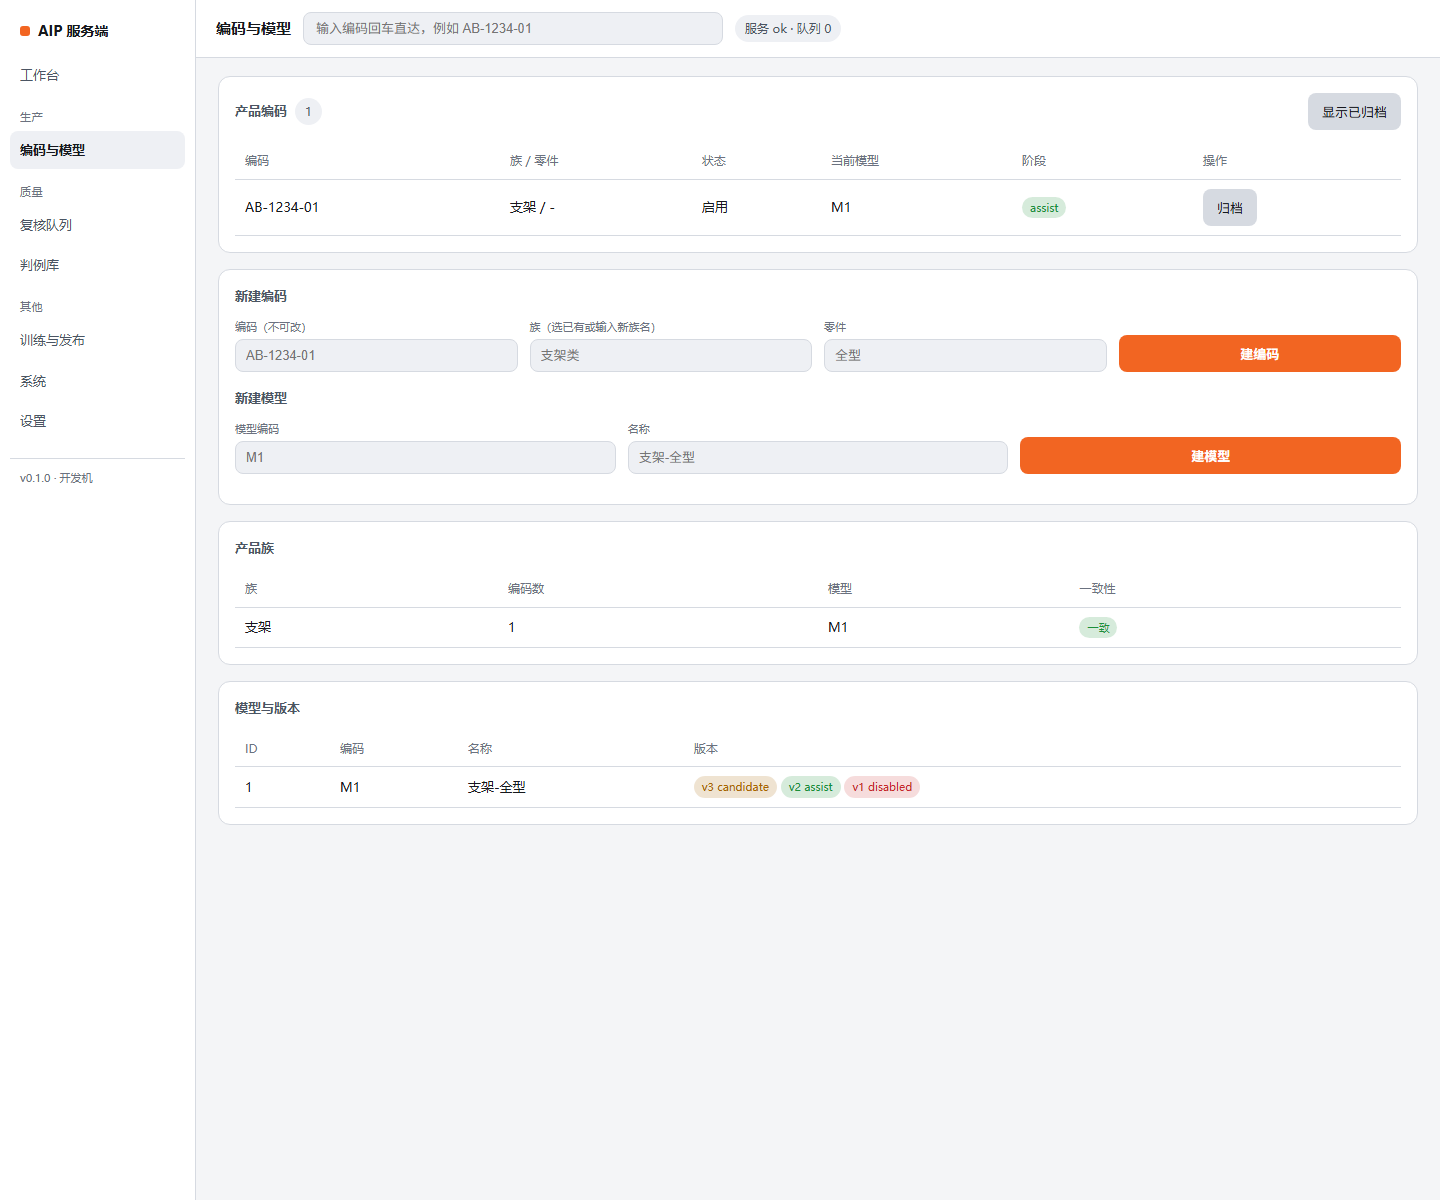
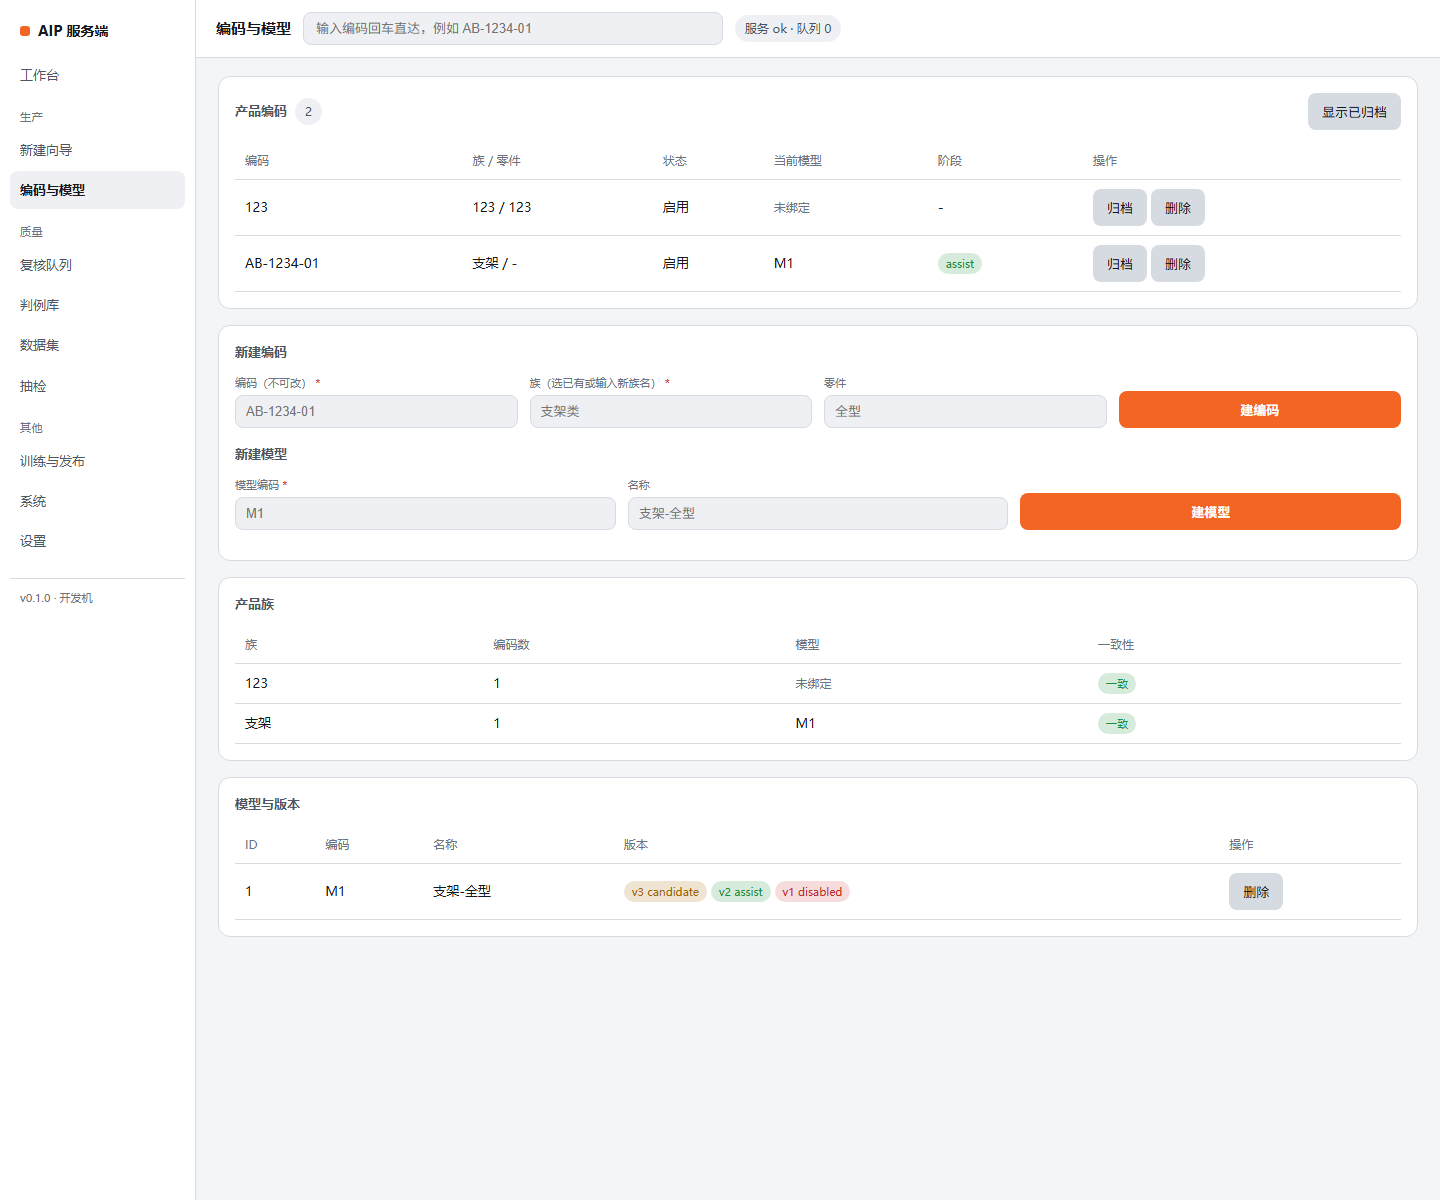
feat: 编码/模型删除（二次确认，有引用即拒绝）；必填项警示

diff --git a/aip/web/admin.html b/aip/web/admin.html
@@ -63,6 +63,8 @@
   tbody tr[data-code]{cursor:pointer}
 
   label{display:block;font-size:11px;color:var(--t3);margin-bottom:4px}
+  input.missing,select.missing{border-color:var(--bad);box-shadow:0 0 0 3px color-mix(in oklab,var(--bad) 20%,transparent)}
+  .req{color:var(--bad)}
   input,select{width:100%;background:var(--g2);border:1px solid var(--g3);color:var(--t1);border-radius:8px;padding:8px 10px;font-size:13px}
   input:user-invalid{border-color:var(--bad)}
   .form{display:grid;grid-template-columns:repeat(auto-fit,minmax(160px,1fr));gap:12px;align-items:end;margin-bottom:14px}
@@ -201,8 +203,8 @@
 <dialog id="caseDlg">
   <form method="dialog" id="caseForm">
     <h2 style="margin-bottom:12px">录入判例</h2>
-    <label for="f_code">编码</label><input id="f_code" required placeholder="AB-1234-01">
-    <label for="f_file">上传裁片</label><input id="f_file" type="file" accept="image/png,image/jpeg">
+    <label for="f_code">编码<span class="req"> *</span></label><input id="f_code" required placeholder="AB-1234-01">
+    <label for="f_file">上传裁片（或填路径，二者必填其一）<span class="req"> *</span></label><input id="f_file" type="file" accept="image/png,image/jpeg">
     <label for="f_path">或手填已有路径</label><input id="f_path" placeholder="data/crops/xxx.png">
     <label for="f_part">件号（同件只录一条）</label><input id="f_part" placeholder="P-20261114-001">
     <label for="f_verdict">结论</label>
@@ -263,6 +265,28 @@ const ACTIONS = {
   "model.smoke": "冒烟试判", "setting.bulk_update": "批量修改设置", "train.cancel": "取消训练",
 };
 const actionLabel = (a) => ACTIONS[a] || a;
+
+function need(el, label) {
+  if (el && String(el.value ?? "").trim()) return true;
+  if (el) { el.classList.add("missing"); el.focus(); }
+  toast(`${label}为必填项`, true);
+  return false;
+}
+
+async function hardDelete(url, label) {
+  if (!confirm(`删除「${label}」？\n\n此操作不可恢复；有历史引用时服务端会拒绝。`)) return false;
+  const typed = prompt(`请再次输入「${label}」以确认删除：`);
+  if (typed !== label) { toast("输入不一致，已取消", true); return false; }
+  try {
+    await api(url, {method: "DELETE"});
+    toast(`已删除 ${label}`);
+    return true;
+  } catch (e) { toast(e.message, true); return false; }
+}
+
+document.addEventListener("input", (ev) => {
+  if (ev.target && ev.target.classList) ev.target.classList.remove("missing");
+});
 
 /* ---------- 视图 ---------- */
 
@@ -360,8 +384,8 @@ async function renderWizard() {
       <h2>新建向导 <span class="pill">一条链路：编码 → 模型 → 样品 → 训练 → 发布</span></h2>
       <p class="muted" style="margin:0 0 12px">只显示当前该做的一步；完成后自动进入下一步，随时可从左侧导航离开。</p>
       ${step(0, `<div class="form">
-          <div><label for="wz_code">编码</label><input id="wz_code" placeholder="AB-1234-01"></div>
-          <div><label for="wz_family">族</label><input id="wz_family" list="wzFamilies" placeholder="支架类"></div>
+          <div><label for="wz_code">编码<span class="req"> *</span></label><input id="wz_code" placeholder="AB-1234-01"></div>
+          <div><label for="wz_family">族<span class="req"> *</span></label><input id="wz_family" list="wzFamilies" placeholder="支架类"></div>
           <div><label for="wz_part">零件</label><input id="wz_part" placeholder="全型"></div>
           <div><button class="act" id="wzCreateCode">建编码</button></div>
         </div>
@@ -370,7 +394,7 @@ async function renderWizard() {
         </div></div>` : ""}`)}
 
       ${step(1, `<div class="form">
-          <div><label for="wz_model">模型编码</label><input id="wz_model" placeholder="M1"></div>
+          <div><label for="wz_model">模型编码<span class="req"> *</span></label><input id="wz_model" placeholder="M1"></div>
           <div><label for="wz_model_name">名称</label><input id="wz_model_name" placeholder="支架-全型"></div>
           <div><button class="act" id="wzCreateModel">建模型并绑定到 ${esc(wiz.code)}</button></div>
         </div>
@@ -404,6 +428,7 @@ async function renderWizard() {
   }
   if ($("wzCreateCode")) {
     $("wzCreateCode").onclick = async () => {
+      if (!need($("wz_code"), "编码")) return;
       try {
         await post("/api/codes", {code: $("wz_code").value.trim(), family: $("wz_family").value.trim() || null, part: $("wz_part").value.trim() || null});
         wiz.code = $("wz_code").value.trim();
@@ -414,6 +439,7 @@ async function renderWizard() {
   }
   if ($("wzCreateModel")) {
     $("wzCreateModel").onclick = async () => {
+      if (!need($("wz_model"), "模型编码")) return;
       try {
         const m = await post("/api/models", {code: $("wz_model").value.trim(), name: $("wz_model_name").value.trim() || null});
         await post("/api/bindings", {code: wiz.code, model_id: m.id});
@@ -524,7 +550,8 @@ async function renderCatalog() {
             <td>${b ? tag(b.stage) : "-"}</td>
             <td>${c.archived_at
               ? `<button class="ghost" data-restore="${esc(c.code)}">取消归档</button>`
-              : `<button class="ghost" data-archive="${esc(c.code)}" ${b ? "disabled title=\"先解绑再归档\"" : ""}>归档</button>`}</td>
+              : `<button class="ghost" data-archive="${esc(c.code)}" ${b ? "disabled title=\"先解绑再归档\"" : ""}>归档</button>`}
+              <button class="ghost" data-delcode="${esc(c.code)}">删除</button></td>
           </tr>`;
         }).join("")}</tbody></table>`}
     </section>
@@ -532,8 +559,8 @@ async function renderCatalog() {
     <section>
       <h2>新建编码</h2>
       <div class="form">
-        <div><label for="nc_code">编码（不可改）</label><input id="nc_code" required placeholder="AB-1234-01"></div>
-        <div><label for="nc_family">族（选已有或输入新族名）</label>
+        <div><label for="nc_code">编码（不可改）<span class="req"> *</span></label><input id="nc_code" required placeholder="AB-1234-01"></div>
+        <div><label for="nc_family">族（选已有或输入新族名）<span class="req"> *</span></label>
           <input id="nc_family" list="familyList" placeholder="支架类">
           <datalist id="familyList">${families.map(f => `<option value="${esc(f.name)}">`).join("")}</datalist>
         </div>
@@ -542,7 +569,7 @@ async function renderCatalog() {
       </div>
       <h2 style="margin-top:16px">新建模型</h2>
       <div class="form">
-        <div><label for="nm_code">模型编码</label><input id="nm_code" required placeholder="M1"></div>
+        <div><label for="nm_code">模型编码<span class="req"> *</span></label><input id="nm_code" required placeholder="M1"></div>
         <div><label for="nm_name">名称</label><input id="nm_name" placeholder="支架-全型"></div>
         <div><button class="act" id="btnNewModel">建模型</button></div>
       </div>
@@ -568,10 +595,11 @@ async function renderCatalog() {
       <h2>模型与版本</h2>
       ${models.length === 0 ? `<div class="empty">还没有模型。建完模型后，在编码详情里建版本、配 ROI 与阈值。</div>` : `
       <table><caption class="sr-only">模型列表</caption>
-        <thead><tr><th scope="col">ID</th><th scope="col">编码</th><th scope="col">名称</th><th scope="col">版本</th></tr></thead>
+        <thead><tr><th scope="col">ID</th><th scope="col">编码</th><th scope="col">名称</th><th scope="col">版本</th><th scope="col">操作</th></tr></thead>
         <tbody>${models.map(m => `<tr>
           <td>${m.id}</td><td>${esc(m.code)}</td><td>${esc(m.name || "-")}</td>
           <td>${m.versions.length ? m.versions.map(v => `<span class="tag ${v.status}">v${v.version_no} ${v.status}</span>`).join(" ") : '<span class="muted">无版本</span>'}</td>
+          <td><button class="ghost" data-delmodel="${m.id}" data-model-code="${esc(m.code)}">删除</button></td>
         </tr>`).join("")}</tbody></table>
 `}
     </section>`;
@@ -588,6 +616,14 @@ async function renderCatalog() {
       catch (e) { toast(e.message, true); }
     };
   });
+  document.querySelectorAll("[data-delcode]").forEach(btn => {
+    btn.onclick = async (ev) => {
+      ev.stopPropagation();
+      const code = btn.dataset.delcode;
+      if (await hardDelete(`/api/codes/${encodeURIComponent(code)}`, code)) renderCatalog();
+    };
+  });
+
   document.querySelectorAll("[data-restore]").forEach(btn => {
     btn.onclick = async (ev) => {
       ev.stopPropagation();
@@ -596,6 +632,7 @@ async function renderCatalog() {
     };
   });
   $("btnNewCode").onclick = async () => {
+    if (!need($("nc_code"), "编码") || !need($("nc_family"), "族")) return;
     try {
       await post("/api/codes", {
         code: $("nc_code").value.trim(),
@@ -605,7 +642,15 @@ async function renderCatalog() {
       toast("编码已创建"); renderCatalog();
     } catch (e) { toast(e.message, true); }
   };
+  document.querySelectorAll("[data-delmodel]").forEach(btn => {
+    btn.onclick = async () => {
+      const code = btn.dataset.modelCode;
+      if (await hardDelete(`/api/models/${btn.dataset.delmodel}`, code)) renderCatalog();
+    };
+  });
+
   $("btnNewModel").onclick = async () => {
+    if (!need($("nm_code"), "模型编码")) return;
     try {
       await post("/api/models", {code: $("nm_code").value.trim(), name: $("nm_name").value || null});
       toast("模型已创建"); renderCatalog();
@@ -1418,13 +1463,14 @@ async function renderDatasets() {
       <div class="form">
         <div><label for="ds_model">模型</label>
           <select id="ds_model">${models.map(m => `<option value="${m.id}">${esc(m.code)} ${esc(m.name || "")}</option>`).join("")}</select></div>
-        <div><label for="ds_name">名称</label><input id="ds_name" placeholder="M1-2026-W46"></div>
+        <div><label for="ds_name">名称<span class="req"> *</span></label><input id="ds_name" placeholder="M1-2026-W46"></div>
         <div><button class="act" id="btnCreateDataset">建数据集</button></div>
       </div>
     </section>`;
 
   $("btnNewDataset").onclick = () => $("ds_name").focus();
   $("btnCreateDataset").onclick = async () => {
+    if (!need($("ds_name"), "数据集名称")) return;
     try {
       const r = await post("/api/datasets", {model_id: Number($("ds_model").value), name: $("ds_name").value.trim()});
       toast("数据集已创建，去判例库勾选加入");
@@ -1487,7 +1533,7 @@ async function renderBlind() {
     <section>
       <h2>新建抽检批次</h2>
       <div class="form">
-        <div><label for="bl_week">周次</label><input id="bl_week" placeholder="2026-W46"></div>
+        <div><label for="bl_week">周次<span class="req"> *</span></label><input id="bl_week" placeholder="2026-W46"></div>
         <div><label for="bl_size">抽样数</label><input id="bl_size" value="300" inputmode="numeric"></div>
         <div><label for="bl_code">编码（可选）</label>
           <select id="bl_code"><option value="">全部</option>
@@ -1498,6 +1544,7 @@ async function renderBlind() {
     </section>`;
 
   $("btnBlind").onclick = async () => {
+    if (!need($("bl_week"), "周次")) return;
     try {
       const r = await post("/api/blind/batches", {
         week: $("bl_week").value.trim(),
@@ -1798,6 +1845,7 @@ $("caseForm").addEventListener("submit", async (ev) => {
   ev.preventDefault();
   if (ev.submitter && ev.submitter.value === "cancel") return;
   try {
+    if (!need($("f_code"), "编码")) return;
     let cropPath = $("f_path").value.trim();
     const file = $("f_file").files[0];
     if (file) {
@@ -1806,7 +1854,7 @@ $("caseForm").addEventListener("submit", async (ev) => {
       const up = await api("/api/cases/upload", {method: "POST", body: form});
       cropPath = up.crop_path;
     }
-    if (!cropPath) { toast("请上传裁片或填写路径", true); return; }
+    if (!cropPath) { $("f_file").classList.add("missing"); $("f_path").classList.add("missing"); toast("请上传裁片或填写路径", true); return; }
     await post("/api/cases", {
       code: $("f_code").value.trim(),
       crop_path: cropPath,

diff --git a/aip/src/aip/api/routes_catalog.py b/aip/src/aip/api/routes_catalog.py
@@ -207,6 +207,66 @@ def restore_code(code: str, conn: sqlite3.Connection = Depends(get_conn)) -> dic
     return {"code": code, "archived": False}
 
 
+@router.delete("/codes/{code}")
+def delete_code(code: str, conn: sqlite3.Connection = Depends(get_conn)) -> dict:
+    """物理删除编码：仅当没有任何判定/绑定/判例引用时允许。
+
+    有引用就必须停用或归档——删了会让历史判定变成孤儿。
+    """
+    row = conn.execute("SELECT id FROM product_code WHERE code = ?", (code,)).fetchone()
+    if row is None:
+        raise ApiError("code_not_found", f"编码 {code} 不存在", "刷新列表", 404)
+    cid = int(row["id"])
+
+    jobs = conn.execute("SELECT count(*) c FROM inference_job WHERE code = ?", (code,)).fetchone()["c"]
+    bindings = conn.execute(
+        "SELECT count(*) c FROM binding WHERE product_code_id = ?", (cid,)
+    ).fetchone()["c"]
+    cases = conn.execute(
+        "SELECT count(*) c FROM case_item WHERE product_code_id = ?", (cid,)
+    ).fetchone()["c"]
+    if jobs or bindings or cases:
+        raise ApiError(
+            "code_in_use",
+            f"编码仍被引用：判定 {jobs} 条、绑定 {bindings} 条、判例 {cases} 条",
+            "改用停用或归档，保留历史",
+            409,
+        )
+    with tx(conn):
+        conn.execute("DELETE FROM product_code WHERE id = ?", (cid,))
+        record(conn, actor="web", action="code.delete", entity="product_code", entity_id=code)
+    return {"code": code, "deleted": True}
+
+
+@router.delete("/models/{model_id}")
+def delete_model(model_id: int, conn: sqlite3.Connection = Depends(get_conn)) -> dict:
+    """物理删除模型：仅当没有版本/绑定/训练任务时允许。"""
+    row = conn.execute("SELECT id FROM model WHERE id = ?", (model_id,)).fetchone()
+    if row is None:
+        raise ApiError("model_not_found", f"模型 {model_id} 不存在", "刷新列表", 404)
+
+    versions = conn.execute(
+        "SELECT count(*) c FROM model_version WHERE model_id = ?", (model_id,)
+    ).fetchone()["c"]
+    bindings = conn.execute(
+        "SELECT count(*) c FROM binding WHERE model_id = ?", (model_id,)
+    ).fetchone()["c"]
+    jobs = conn.execute(
+        "SELECT count(*) c FROM train_job WHERE model_id = ?", (model_id,)
+    ).fetchone()["c"]
+    if versions or bindings or jobs:
+        raise ApiError(
+            "model_in_use",
+            f"模型仍被引用：版本 {versions} 个、绑定 {bindings} 条、训练任务 {jobs} 个",
+            "改用归档，保留历史",
+            409,
+        )
+    with tx(conn):
+        conn.execute("DELETE FROM model WHERE id = ?", (model_id,))
+        record(conn, actor="web", action="model.delete", entity="model", entity_id=model_id)
+    return {"id": model_id, "deleted": True}
+
+
 @router.put("/models/{model_id}")
 def patch_model(
     model_id: int, body: ModelPatch, conn: sqlite3.Connection = Depends(get_conn)

diff --git a/tests/test_api_delete.py b/tests/test_api_delete.py
@@ -1,0 +1,63 @@
+"""删除验收：无引用可删，有引用必须拒绝（保护证据链）。"""
+
+from __future__ import annotations
+
+import pytest
+from fastapi.testclient import TestClient
+from PIL import Image
+
+from aip import store, whitelist
+from aip.api.app import create_app
+
+
+@pytest.fixture()
+def client(tmp_path, monkeypatch):
+    monkeypatch.setenv("AIP_WHITELIST", str(tmp_path / "none.yaml"))
+    whitelist.reset_cache()
+    db = tmp_path / "api.db"
+    conn = store.connect(db)
+    store.migrate(conn)
+    conn.close()
+    return TestClient(create_app(db))
+
+
+def test_delete_unused_code_and_model(client):
+    client.post("/api/codes", json={"code": "AB-1"})
+    assert client.delete("/api/codes/AB-1").status_code == 200
+    assert client.get("/api/codes").json() == []
+
+    model = client.post("/api/models", json={"code": "M1"}).json()
+    assert client.delete(f"/api/models/{model['id']}").status_code == 200
+    assert client.get("/api/models").json() == []
+
+
+def test_delete_code_blocked_by_binding(client):
+    client.post("/api/codes", json={"code": "AB-1"})
+    model = client.post("/api/models", json={"code": "M1"}).json()
+    client.post("/api/bindings", json={"code": "AB-1", "model_id": model["id"]})
+    r = client.delete("/api/codes/AB-1")
+    assert r.status_code == 409
+    assert r.json()["error_code"] == "code_in_use"
+
+
+def test_delete_model_blocked_by_version(client):
+    model = client.post("/api/models", json={"code": "M1"}).json()
+    client.post(f"/api/models/{model['id']}/versions", json={"version_no": 1})
+    r = client.delete(f"/api/models/{model['id']}")
+    assert r.status_code == 409
+    assert r.json()["error_code"] == "model_in_use"
+
+
+def test_delete_code_blocked_by_case(client, tmp_path):
+    client.post("/api/codes", json={"code": "AB-1"})
+    img = tmp_path / "c.png"
+    Image.new("RGB", (16, 16), (1, 2, 3)).save(img)
+    client.post("/api/cases", json={"code": "AB-1", "crop_path": str(img), "verdict": "ok", "adjudicator": "z"})
+    r = client.delete("/api/codes/AB-1")
+    assert r.status_code == 409
+    assert "判例" in r.json()["message"]
+
+
+def test_delete_unknown(client):
+    assert client.delete("/api/codes/NOPE").status_code == 404
+    assert client.delete("/api/models/999").status_code == 404
